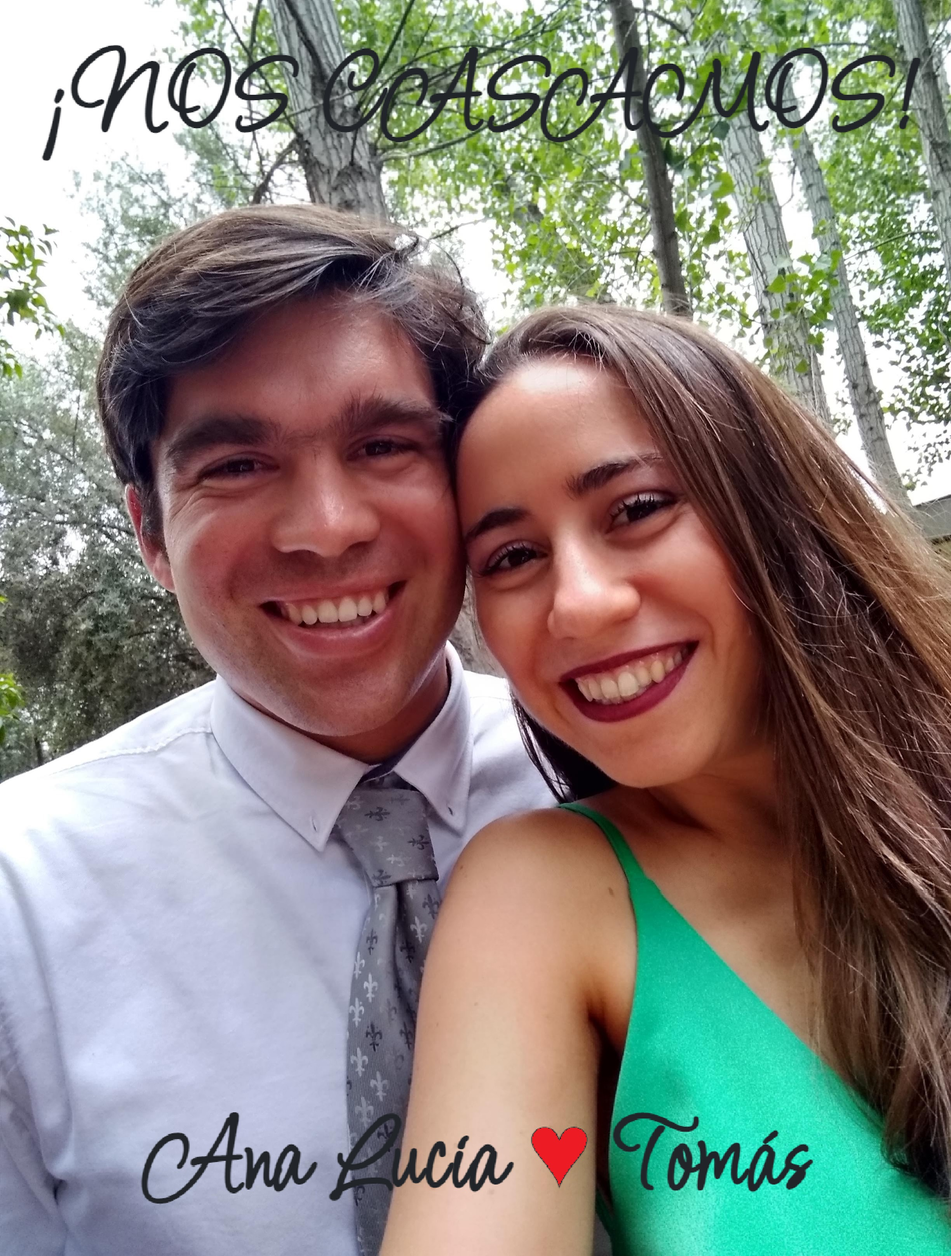
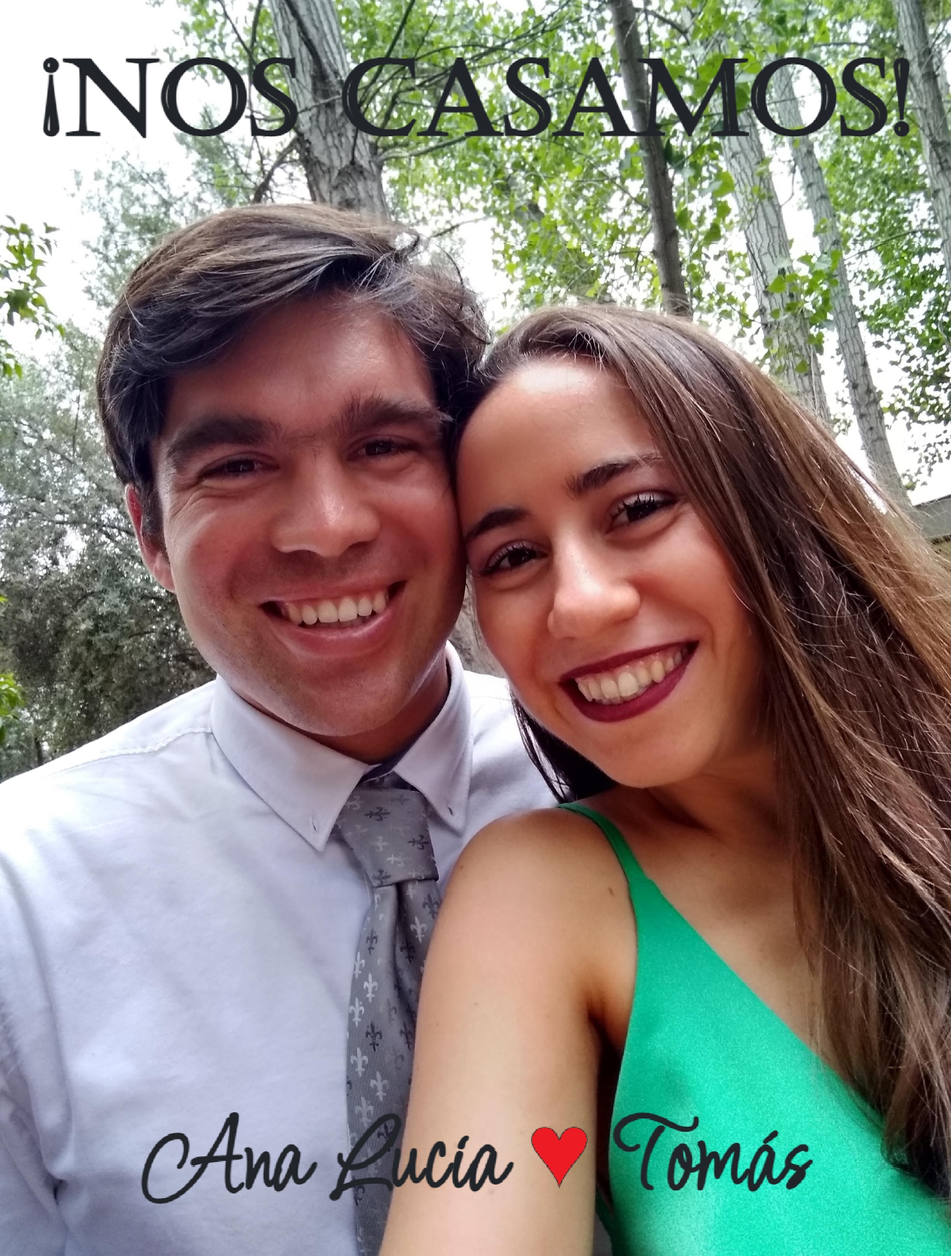
arreglo tipografia imagen

Changed region(s): [[0.031, 0.0, 1.0, 0.2186], [0.0, 0.1562, 0.0621, 0.1874]]

diff --git a/styles/style.css b/styles/style.css
@@ -202,9 +202,9 @@ margin: 0 auto;
     height: auto;
     }
   .cover-text {
-    font-family: 'Licorice';
+    font-family: 'castellar';
     position: absolute;
-    top: 175%;
+    top: 20%;
     width: 100%;
     left: 0;
     text-align: center;
@@ -213,7 +213,7 @@ margin: 0 auto;
     -ms-transform: translate(0%, -50%);
     transform: translate(0%, -50%);
   }
-  #cover h1 {
+  #cover h2 {
     font-size: 6em;
     font-weight: 700;
     line-height: 600px;
